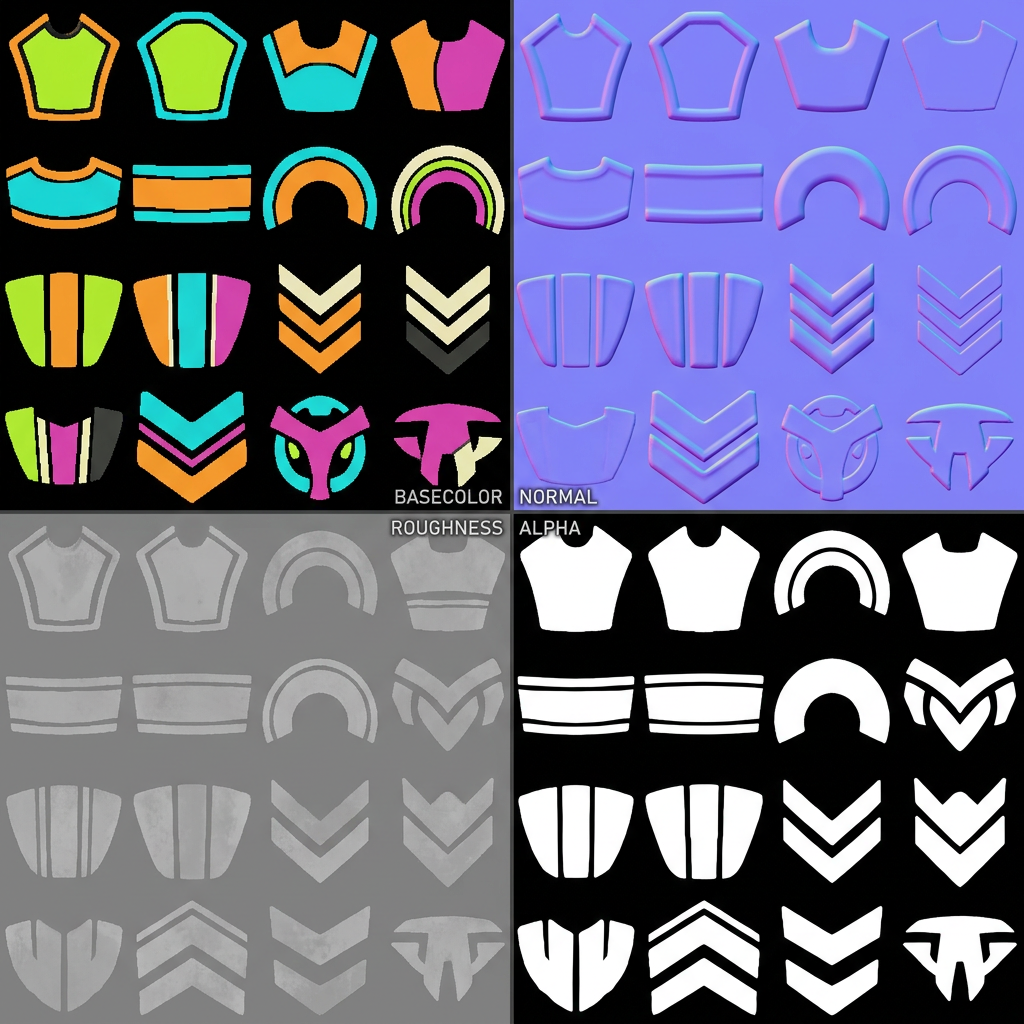
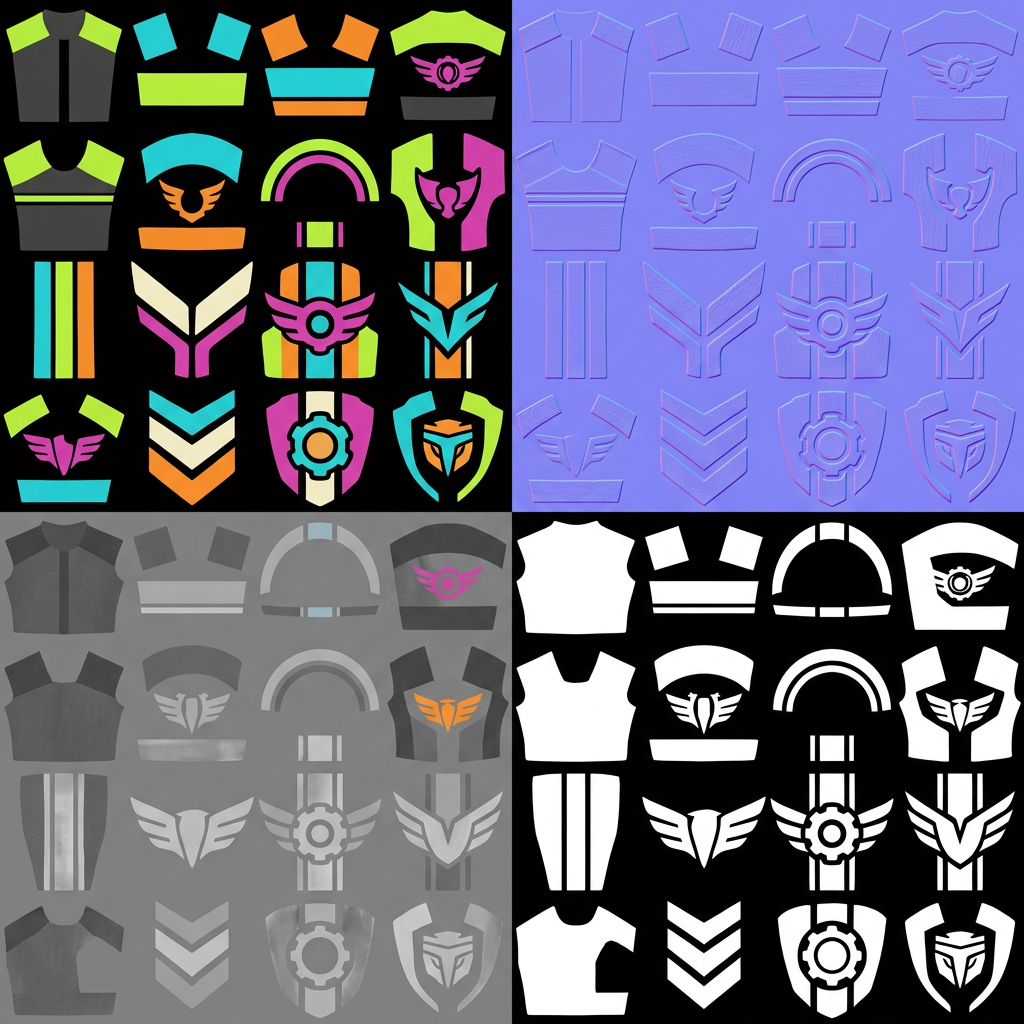
Complete nostalgic Creator wardrobe presets

diff --git a/art-src/meshy/material-refs/README.md b/art-src/meshy/material-refs/README.md
@@ -769,10 +769,29 @@ Canonical codes and reconstruction recipes for M381–M390 are registered in [`t
 
 Canonical codes and reconstruction recipes for M391–M400 are registered in [`texture-preset-catalog.json`](./texture-preset-catalog.json).
 
+## Material Batch 42 — nostalgic Goblin Creator wardrobe and accessories
+
+![Material Batch 42 nostalgic Creator contact sheet](./review/material-batch-42-nostalgic-creator-contact-sheet.jpg)
+
+![Material Batch 42 BaseColor previews at 128 px](./review/material-batch-42-nostalgic-basecolor-128px-preview.png)
+
+| ID | Nostalgic Creator preset | Canonical use | Status and production note |
+|---|---|---|---|
+| M401 | Pixel hair cards | Hair, brows and punk silhouettes | Pass. Excellent chunky mohawks, tufts, locks and brows with six-color palette swaps. |
+| M402 | Dithered skin details | Pigment, freckles, blush and age layers | Pass. Strong appealing olive, tan, violet and coral clusters without fixed facial texture. |
+| M403 | Classic goggle kit | Goggle frames and lenses | Pass. Excellent round, oval and angular variants with clean transmission silhouettes. |
+| M404 | Retro protective plate material | Creator protective gear and racing panels | Pass. Strong acid-green enamel, charcoal metal, orange trim and broad exposed wear. |
+| M405 | Hand-painted boot leather | Boots, gloves and heavy gear | Pass. Excellent broad flex creases, mud, pale wear and painterly limited palette. |
+| M406 | Chunky jewelry atlas | Rings, cuffs, beads and abstract charms | Pass after regeneration. Clean original loops, plates, spirals and machine charms without real-world religious forms. |
+| M407 | Arcade cloth patches | Wardrobe and team patches | Pass. Strong geometric shapes, clean alpha and indexed racing palette. |
+| M408 | Limited-palette cosmetics | Eye, lip, cheek and nail overlays | Pass. Excellent chunky punk cosmetics without full-face dependency or micro-glitter. |
+| M409 | Creator grime atlas | Dust, mud, chalk, grease and paint | Pass. Strong broad wipes, rings and drags with clean material-condition masks. |
+| M410 | Palette-swap team kit | Clothing, helmets and vehicle identity | Pass after regeneration. Excellent bold panels, bands and emblems without generated labels. |
+
+Canonical codes and reconstruction recipes for M401–M410 are registered in [`texture-preset-catalog.json`](./texture-preset-catalog.json).
+
 ## Next material batches
 
-### Batch 42 — nostalgic Goblin Creator wardrobe and accessories — in progress
+### Batch 43 — nostalgic settlement props and signage
 
-Pixel hair cards, dithered skin details, classic goggles, retro armor, hand-painted boots, chunky jewelry, arcade cloth patches, limited-palette cosmetics, creator grime overlays and palette-swap team kits.
-
-M401–M403 and M405–M410 have been generated and cataloged. M404 retro armor remains pending because the generation turn reached its image cap after a moderated attempt. Interim review: M401–M405 and M407–M409 pass; M406 requires removal of real-world cross-like charm forms; M410 requires regeneration without generated channel labels. Final Batch 42 contact sheets will replace the partial review sheets after M404 is generated.
+Pixel crate wood, dithered cardboard, classic enamelware, retro bottle glass, arcade vending plastic, chunky fabric awnings, market-sign symbol atlas, pixel utility labels without words, nostalgic rope/basket materials and retro light fixtures.
